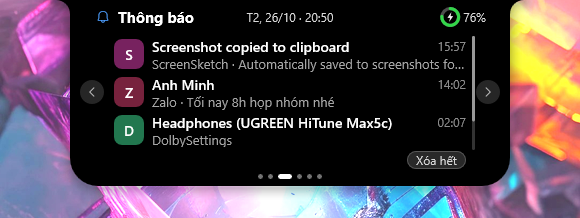
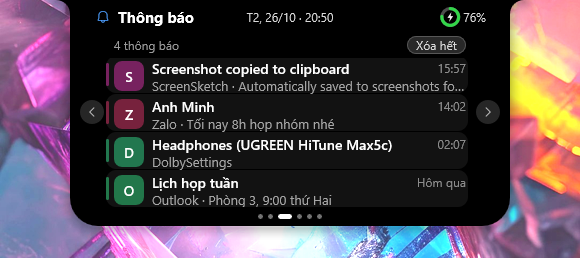
feat(notifications): the Notifications page is taller (4 cards), each in its app's colour, with the count and Clear all on the line above

diff --git a/src/render.rs b/src/render.rs
@@ -279,7 +279,7 @@ pub fn panel_size(page: Page) -> [f32; 2] {
     let [w, h, _] = target(Mode::Expanded, false);
     match page {
         // Four task cards instead of three.
-        Page::Todo => [w, h + 40.0],
+        Page::Todo | Page::Notify => [w, h + 40.0],
         _ => [w, h],
     }
 }
@@ -311,14 +311,15 @@ const STATS_Y: [f32; 2] = [90.0, 128.0];
 const HOURS_BTN_W: f32 = 38.0;
 
 /// Notifications page: rows of two lines.
-const NOTE_Y: f32 = 36.0;
+const NOTE_Y: f32 = 58.0;
 const NOTE_H: f32 = 38.0;
-pub const NOTE_ROWS: usize = 3;
+pub const NOTE_ROWS: usize = 4;
 /// "Clear all" under the rows, right-aligned with their times: a pill hugging its label (the click
 /// area is this wide), inside the pages' clip, which ends at dots_y - 3.
 const CLEAR_W: f32 = 64.0;
 const CLEAR_H: f32 = 18.0;
-const CLEAR_Y: f32 = NOTE_Y + NOTE_H * NOTE_ROWS as f32 + 1.0;
+/// The count of notifications and the clear button share the line above the list.
+const CLEAR_Y: f32 = 36.0;
 /// Room between the label and the pill's edge on each side.
 const CLEAR_PAD: f32 = 9.0;
 /// Health page cards.
@@ -2363,6 +2364,10 @@ impl Renderer {
                                 text(tr("Chưa có thông báo", "No notifications"), F_BODY, area, center, grey(0.55, a))?;
                             }
                             let today = (lv.now / 10_000) as u32;
+                            if !v.notes.is_empty() {
+                                let count = format!("{} {}", v.notes.len(), tr("thông báo", "notifications"));
+                                text(&count, F_LABEL, rect(cl, CLEAR_Y * s, cr - (CLEAR_W + 8.0) * s, (CLEAR_Y + CLEAR_H) * s), lead, grey(0.6, a))?;
+                            }
                             // Rows glide to their place after a wheel step: drawn from the fractional
                             // position, inside the list's own clip.
                             let pos = if current { lv.note_pos } else { 0.0 };
@@ -2370,11 +2375,13 @@ impl Renderer {
                             rt.PushAxisAlignedClip(&rect(cl - 8.0 * s, NOTE_Y * s, cr + 10.0 * s, (NOTE_Y + NOTE_H * NOTE_ROWS as f32 - 3.0) * s), D2D1_ANTIALIAS_MODE_ALIASED);
                             for (row, n) in v.notes.iter().enumerate().skip(first).take(NOTE_ROWS + 1) {
                                 let y = (NOTE_Y + (row as f32 - pos) * NOTE_H) * s;
-                                // The row under the mouse lights up: clicking it opens the notification.
-                                if hovered == Some(Button::NoteOpen(row)) {
-                                    let hb = rect(cl - 6.0 * s, y - 1.0 * s, cr + 2.0 * s, y + (NOTE_H - 3.0) * s);
-                                    rt.FillRoundedRectangle(&rounded(hb, 8.0 * s), &self.brush(grey(0.1, a))?);
-                                }
+                                // Each notification is a card in its app's colour; the one under the mouse
+                                // lights up: clicking it opens the notification.
+                                let hot = hovered == Some(Button::NoteOpen(row));
+                                let card = rect(cl - 8.0 * s, y - 2.0 * s, cr + 2.0 * s, y + (NOTE_H - 3.0) * s);
+                                rt.FillRoundedRectangle(&rounded(card, 10.0 * s), &self.brush(grey(if hot { 0.13 } else { 0.07 }, a))?);
+                                let (sr, sg, sb) = app_tint(&n.app);
+                                rt.FillRoundedRectangle(&rounded(rect(card.left, card.top + 7.0 * s, card.left + 3.0 * s, card.bottom - 7.0 * s), 1.5 * s), &self.brush(color(sr, sg, sb, a))?);
                                 // Line 1: title, time on the right. Line 2: app · text.
                                 let day = (n.at / 10_000) as u32;
                                 let when = if day == today { format!("{:02}:{:02}", n.at / 100 % 100, n.at % 100) }
@@ -3038,11 +3045,10 @@ mod tests {
     }
 
     #[test]
-    fn clear_all_sits_under_the_rows_clear_of_the_bottom_edge() {
-        let [_, panel_h, _] = target(Mode::Expanded, false);
-        assert!(CLEAR_Y >= NOTE_Y + NOTE_H * NOTE_ROWS as f32, "below the last row");
-        assert!(panel_h - (CLEAR_Y + CLEAR_H) >= 12.0, "well inside the panel's bottom edge");
-        assert!(CLEAR_Y + CLEAR_H + 1.0 <= dots_y(186.0) - 3.0, "whole, border included, inside the pages' clip");
+    fn clear_all_sits_above_the_rows_and_the_rows_fit_the_panel() {
+        let ph = panel_size(Page::Notify)[1];
+        assert!(CLEAR_Y + CLEAR_H <= NOTE_Y, "above the first row");
+        assert!(NOTE_Y + NOTE_H * NOTE_ROWS as f32 <= dots_y(ph) - 3.0, "the rows end inside the pages' clip");
         for scale in [1.0, 1.5] {
             let cx = 265.0 * scale;
             let (x, y) = (cx + (220.0 - SIDE - 10.0) * scale, (CLEAR_Y + CLEAR_H / 2.0) * scale);

diff --git a/tools/readme_shots.py b/tools/readme_shots.py
@@ -21,7 +21,7 @@ SIZES = {
     "pill-idle": (260, 44), "pill-music": (260, 44), "weather-pill": (260, 44), "weather-pill-music": (260, 44),
     "style-pill-idle": (260, 50), "style-pill-music": (260, 50),
     "page-music": (580, 218), "page-music-empty": (580, 218), "page-health": (580, 218), "page-weather": (580, 218),
-    "page-tasks": (580, 258), "page-notifications": (580, 218),
+    "page-tasks": (580, 258), "page-notifications": (580, 258),
     "page-usage-claude": (580, 218), "page-usage-codex": (580, 218), "page-usage-antigravity": (580, 218),
     "style-pill-page": (580, 224),
     "page-music-lyrics": (900, 218),
